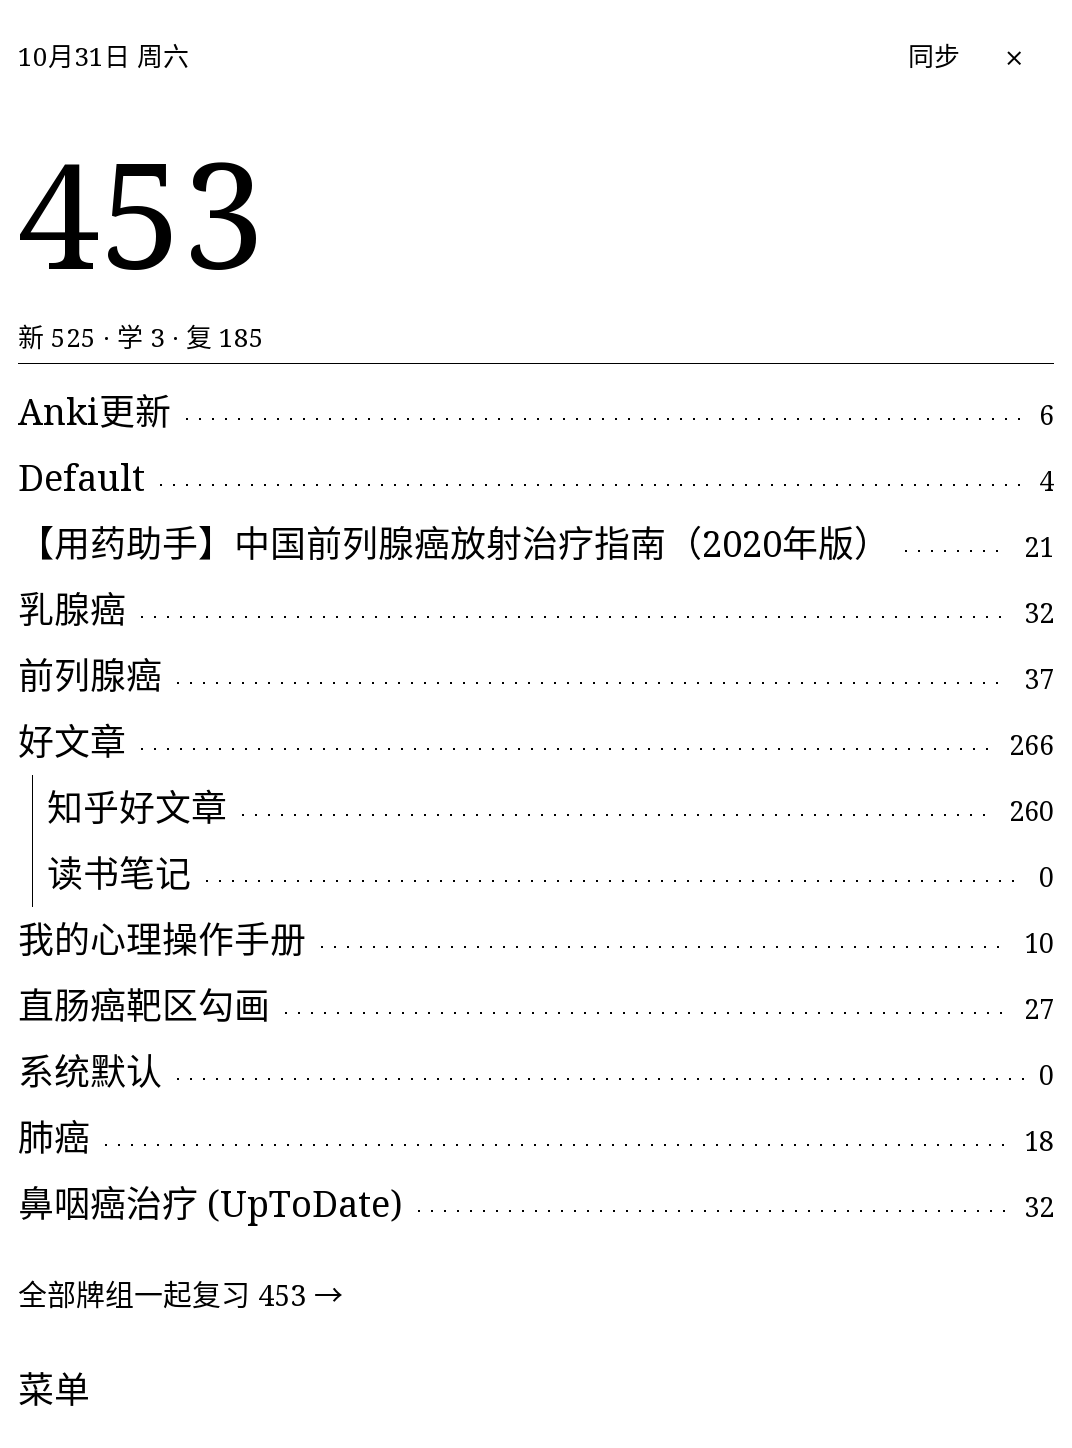
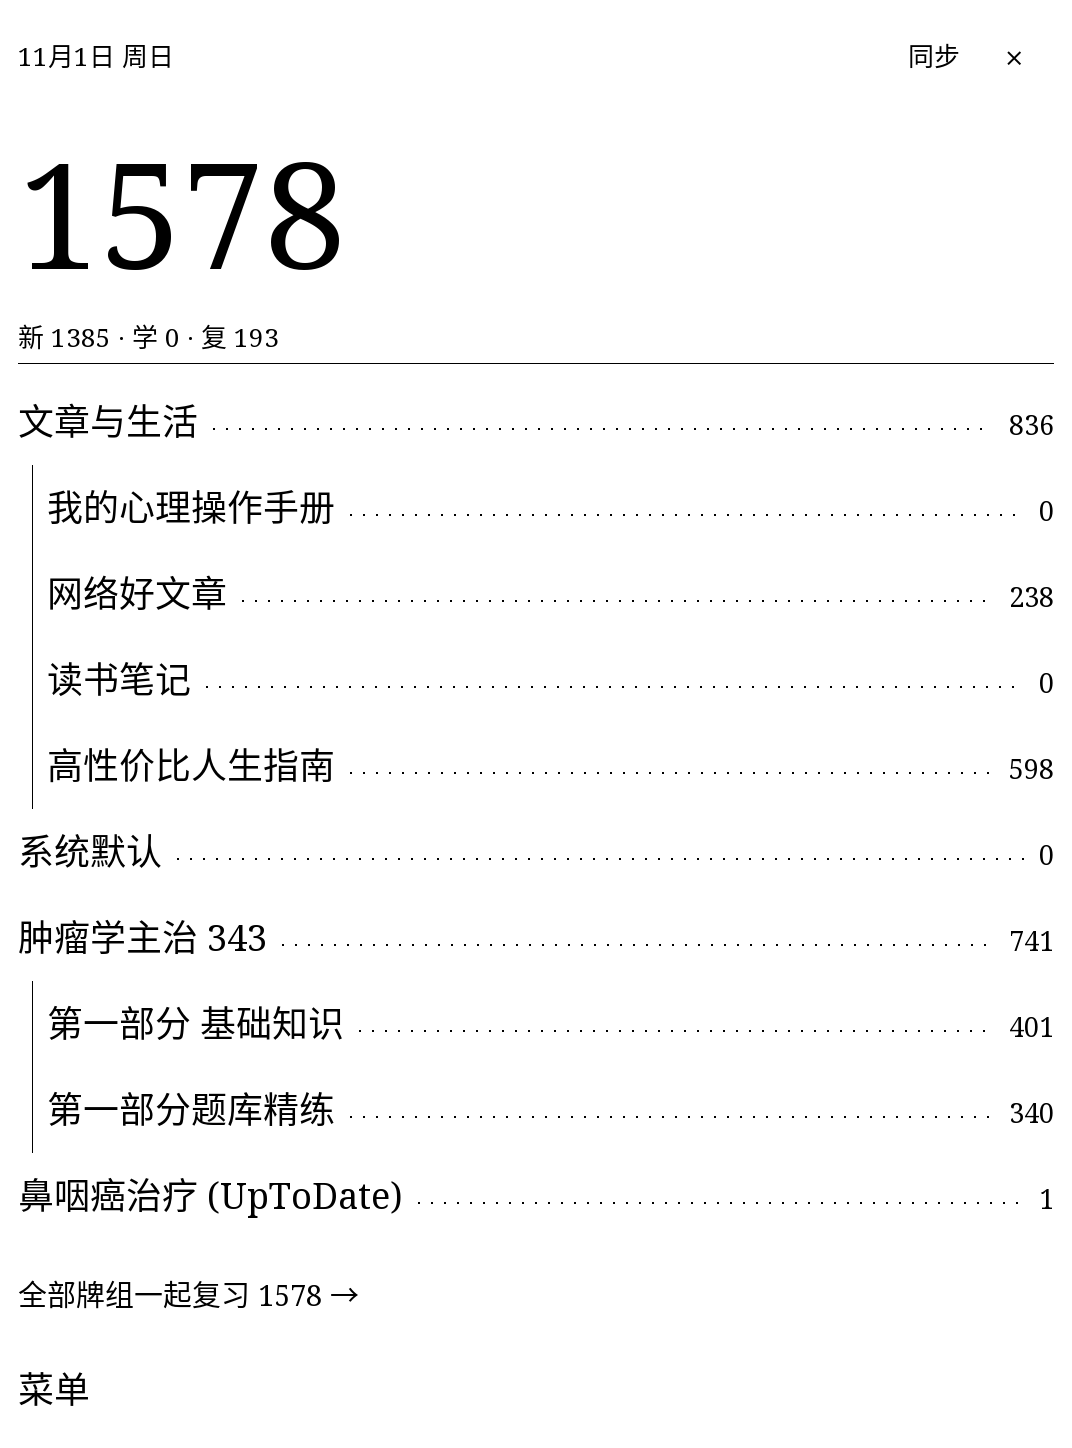
docs(screenshots): 三张演示图换成真机截图，用真实题库
原来是测试库的「牌组 16/17/18」和一篇公众号长文（一卡分 6 屏），既看不出
真实使用场景，也和项目定位不搭。

现在三张都取自 Kindle Voyage 真机（1072×1448），经 httpinspector 的
device/screen/bb 直接截当前面板：

- decklist：1578 待复习，新 1385 / 学 0 / 复 193；牌组树可见
  「肿瘤学主治 343 → 第一部分 基础知识 401 / 第一部分题库精练 340」
- study-front：第一部分题库精练 第 1/20 张，「临床分期是」+ 五个选项
- study-answer：同一张翻面，答案 D cTNM + AI 助记 + 四个真实间隔
  （重来 1 分钟 / 困难 6 分钟 / 记住 10 分钟 / 太简单 4 天）

三张图沿用原文件名，旧内容已被覆盖，工作树里不再有旧截图。
README 的 alt 文案同步改成与新图一致。

diff --git a/README.md b/README.md
@@ -3,9 +3,9 @@
 **在 Kindle 上刷 Anki 卡片。** 电子墨水屏看卡、按键评分，进度和手机、电脑上的 Anki 自动对上。
 
 <p align="center">
-  <img src="docs/screenshots/study-front.png" width="30%" alt="卡片正面">
-  <img src="docs/screenshots/study-answer.png" width="30%" alt="翻面后的答案和四个评分键">
-  <img src="docs/screenshots/decklist.png" width="30%" alt="牌组列表和今天要背的数量">
+  <img src="docs/screenshots/study-front.png" width="30%" alt="卡片正面：题干与五个选项">
+  <img src="docs/screenshots/study-answer.png" width="30%" alt="同一张卡翻面：正确答案、AI 助记和四个评分键">
+  <img src="docs/screenshots/decklist.png" width="30%" alt="牌组列表与今天要背的总数">
 </p>
 
 > **English** — Study your Anki decks on a jailbroken Kindle. Flip cards on e-ink, grade them,
